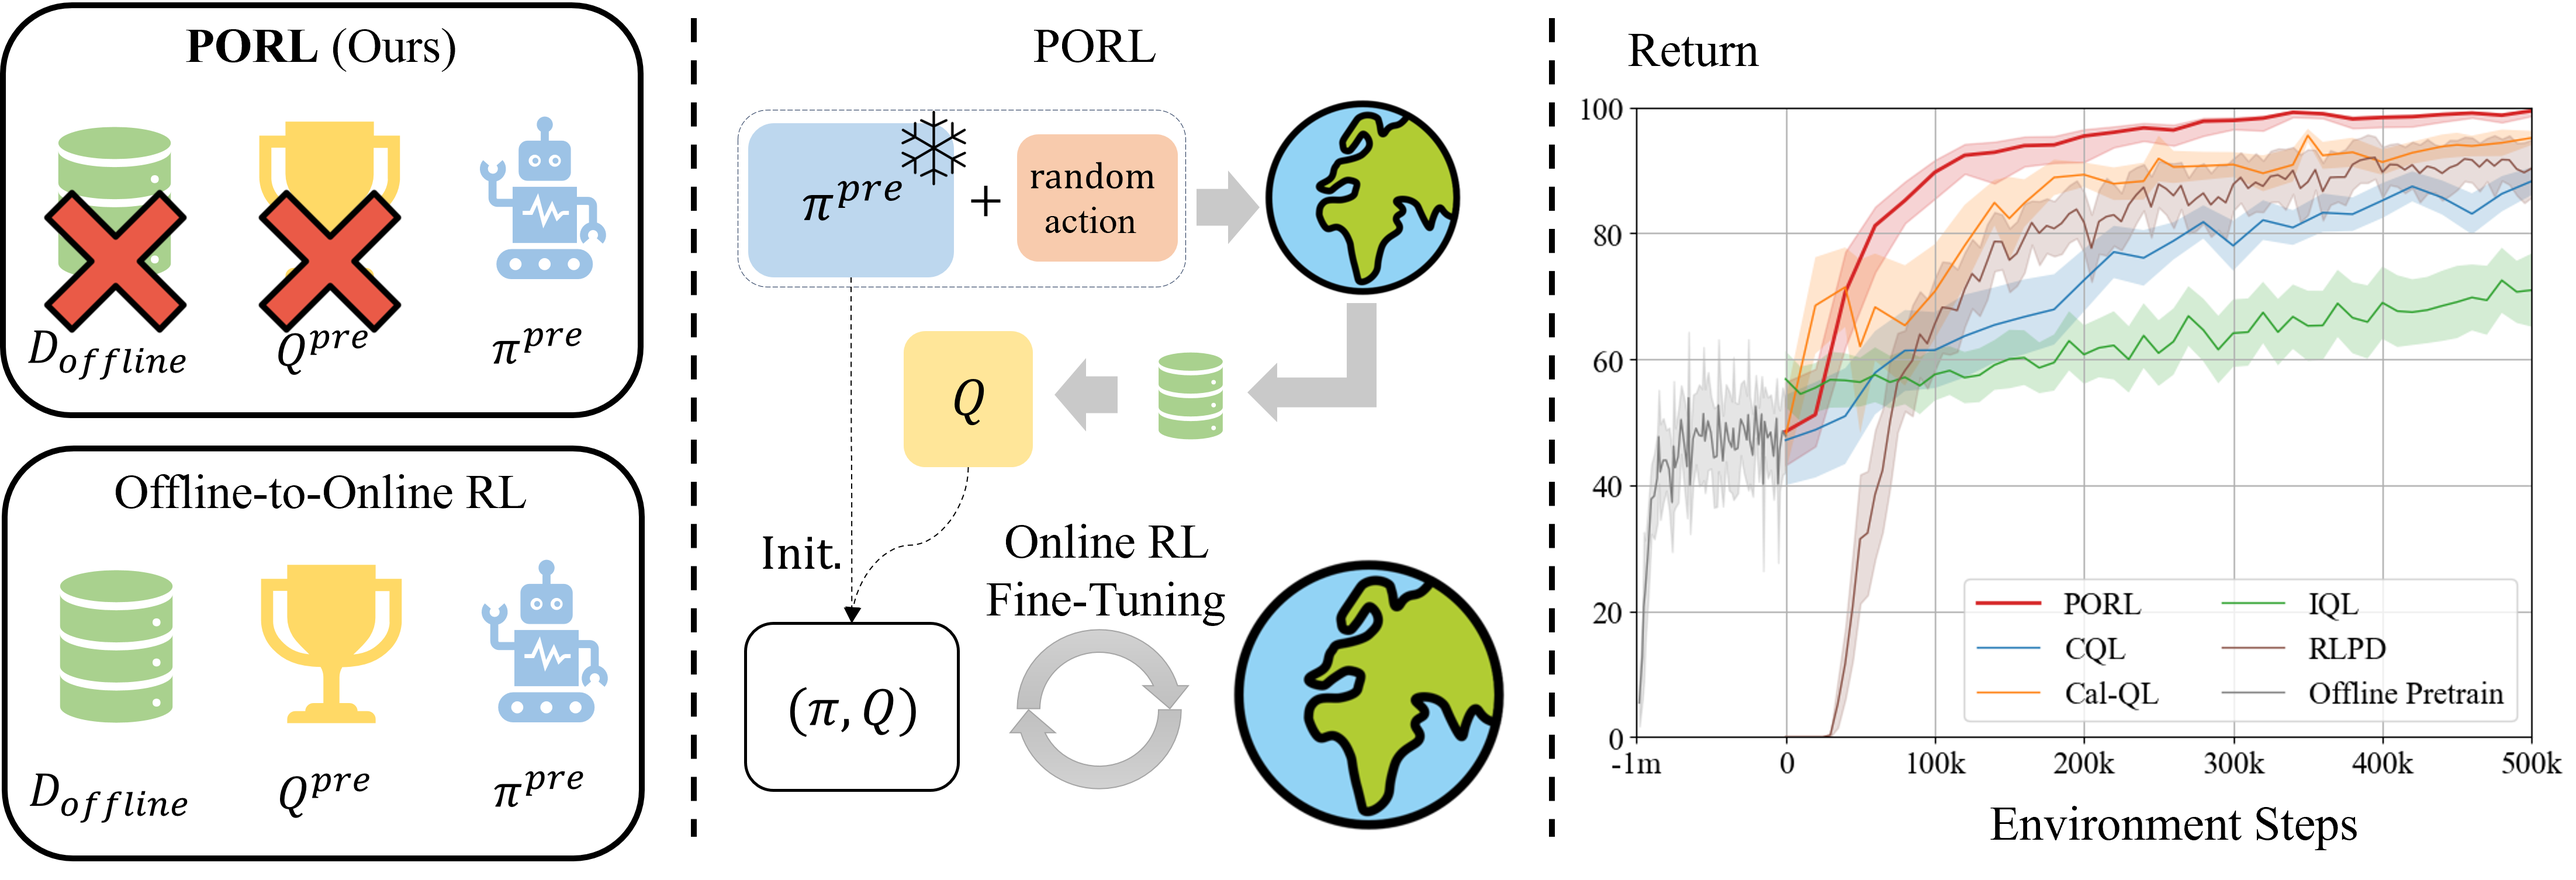
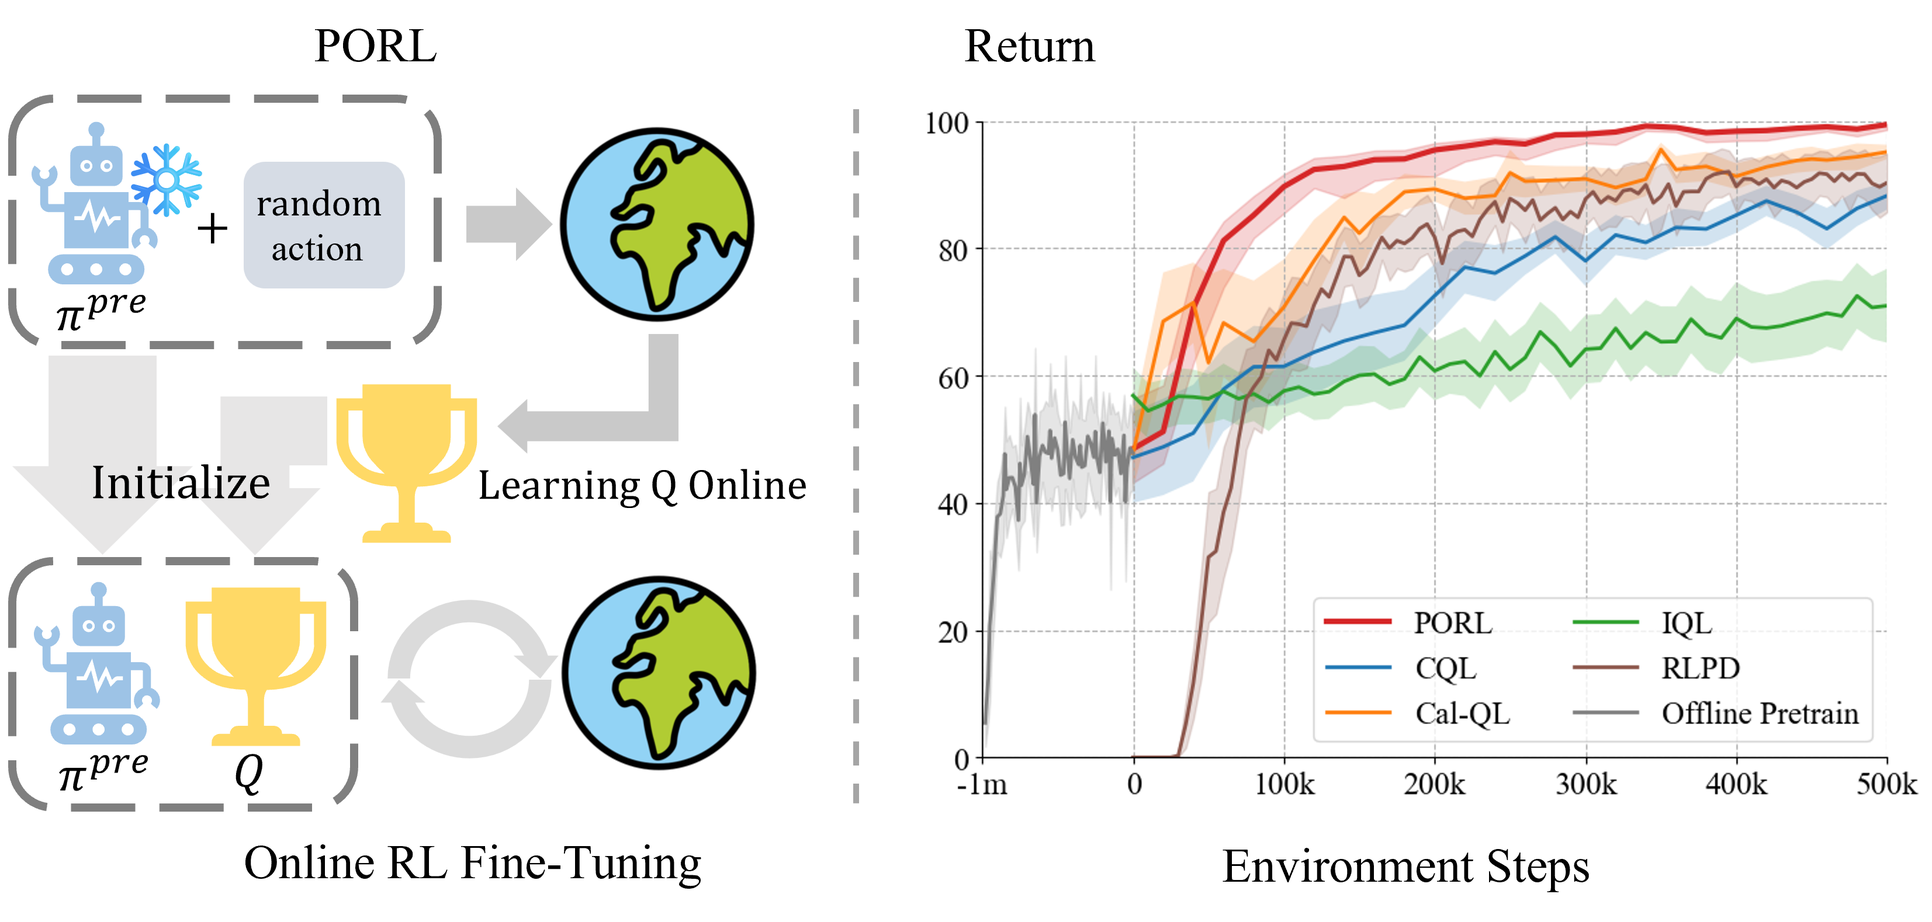
update

diff --git a/_includes/author-profile.html b/_includes/author-profile.html
@@ -118,6 +118,9 @@
       {% if author.zhihu %}
         <li><a href="https://www.zhihu.com/people/{{ author.zhihu }}"><i class="fab fa-fw fa-zhihu" aria-hidden="true"></i> Zhihu</a></li>
       {% endif %}
+      {% if author.xiaohongshu %}
+        <li><a href="{{ author.xiaohongshu }}"><i class="fab fa-fw fa-xiaohongshu" aria-hidden="true"></i> 小红书</a></li>
+      {% endif %}
       {% if author.wikipedia %}
         <li><a href="https://en.wikipedia.org/wiki/User:{{ author.wikipedia }}"><i class="fab fa-fw fa-wikipedia-w" aria-hidden="true"></i> Wikipedia</a></li>
 {% endif %}

diff --git a/_pages/about.md b/_pages/about.md
@@ -18,59 +18,73 @@ redirect_from:
 
 <span class='anchor' id='about-me'></span>
 
-I'm Wei Xiao (肖巍), now a Research Assistant at [MiLab](https://milab.westlake.edu.cn/index.html), Westlake University advised by [Donglin Wang](https://scholar.google.com/citations?user=-fo6wdwAAAAJ&hl=zh-CN). 
-Prior to that, I got my bachelor's degree in Automation from [Xiamen University](https://www.xmu.edu.cn/) advised by [Qifeng Zhou](https://scholar.google.com/citations?user=yLQpYYYAAAAJ). 
+Hi!, I'm **Wei Xiao (肖巍)**, currently a Research Assistant at [MiLab](https://milab.westlake.edu.cn/index.html), [**Westlake University**](https://www.westlake.edu.cn/) advised by [Donglin Wang](https://scholar.google.com/citations?user=-fo6wdwAAAAJ&hl=zh-CN). 
+Prior to that, I got my bachelor's degree in Automation from [**Xiamen University**](https://www.xmu.edu.cn/) advised by [Qifeng Zhou](https://scholar.google.com/citations?user=yLQpYYYAAAAJ). 
 
-<span style="color:blue">I am looking for research collaborations and a Ph.D/MPhil. position starting from 2025/2026.</span>
+<span style="color:pink">I am looking for research collaborations and a PhD position</span> starting from <span style="color:red">2026 Fall.</span>
 Please drop me an email if you are interested in my research or just want to chat!
 
-Email: xiaowei2002103@foxmail.com / xiaowei@westlake.edu.cn !
+Email: **xiaowei2002103@foxmail.com** !
 
-My research interests include Embodied AI and Reinforcement Learning. 
+I like \textbf{Robotic Learning}. I am focused on building end-to-end robots with <span style="color:red">Universality, Generalizability</span>, and <span style="color:red">Robustness</span>, utilizing learning‑based methods that scale with data and computation. I am currently passionate about <span style="color:red">Manipulation</span> and <span style="color:red">Locomotion</span> tasks.
 
-I am passionate about building generalizable robots and powerful decision models.
 
 # 📍 Experience
 - *2024.7-now*: Research Assistant in Machine Intelligence Lab (MiLAB), Westlake University
 
-- *2021.7-2024.7*: (Bachelor Degree)Major in Automation, Xiamen University
+- *2021.7-2024.7*: (B.Eng)Major in Automation, Xiamen University
 
 - *2020.9-2021.7*: Major in Biology, Xiamen University
 
 # 🔥 News
+- *2025.5*: &nbsp;🎉🎉 Our works [PORL](https://arxiv.org/abs/2505.16856) and [LIT](https://arxiv.org/abs/2503.10484v1) is available in arxiv.
 - *2024.11*: &nbsp;🎉🎉 Homepage has been set up.
-- *2024.09*: &nbsp;🎉🎉 Our paper "PT4Rec: A Universal Prompt-Tuning Framework for Graph Contrastive Learning-Based Recommendations" is accepted by ACML2024 and Machine Learning Journal.
+- *2024.09*: &nbsp;🎉🎉 Our paper [PT4Rec](https://link.springer.com/article/10.1007/s10994-024-06658-0) is accepted by ACML2024 and Machine Learning Journal.
 
 # 📝 Publications 
 ## Embodied AI & RL
+<div class='paper-box'><div class='paper-box-image'><div><div class="badge">(under review)</div><img src='images/papers/porl.png' alt="sym" width="100%"></div></div>
+<div class='paper-box-text' markdown="1">
+
+**Efficient Online RL Fine-Tuning with Offline Pre-trained Policy Only**
+
+**Wei Xiao***, Jiacheng Liu, Zifeng Zhuang, Runze Suo, Shangke Lyu†, Donglin Wang†
+- Online RL Fine-Tuning.
+- [**Paper**](https://arxiv.org/abs/2505.16856)
+</div>
+</div>
+
+
 <div class='paper-box'><div class='paper-box-image'><div><div class="badge">(under review)</div><img src='images/papers/lit.png' alt="sym" width="100%"></div></div>
 <div class='paper-box-text' markdown="1">
 
-[Learning Robotic Policy with Imagined Transition: Mitigating the Trade-off between Robustness and Optimality](https://arxiv.org/abs/2503.10484v1)
+**Learning Robotic Policy with Imagined Transition: Mitigating the Trade-off between Robustness and Optimality**
 
 **Wei Xiao***, Shangke Lyu†, [Zhefei Gong](https://zhefeigong.github.io/), Renjie Wang, Donglin Wang†
-- Robotic Locomotion.
+- Robotic Locomotion, RL.
+- [**Paper**](https://arxiv.org/abs/2503.10484v1)
 </div>
 </div>
+
+
+<div class='paper-box'><div class='paper-box-image'><div><div class="badge">(under review)</div><img src='images/papers/korr.png' alt="sym" width="100%"></div></div>
+<div class='paper-box-text' markdown="1">
+
+**Robust Online Residual Refinement via Koopman-Guided Dynamics Modeling**
+
+Zhefei Gong, Shangke Lyu, Pengxiang Ding, **Wei Xiao**, Donglin Wang†
+- Robotic Manipulation, Model-Based RL.
+</div>
+</div>
+
 
 <div class='paper-box'><div class='paper-box-image'><div><div class="badge">(under review)</div><img src='images/papers/to.png' alt="sym" width="100%"></div></div>
 <div class='paper-box-text' markdown="1">
 
-[Integrating Trajectory Optimization and Reinforcement Learning for Quadrupedal Jumping with Terrain-Adaptive Landing]()
+**Integrating Trajectory Optimization and Reinforcement Learning for Quadrupedal Jumping with Terrain-Adaptive Landing**
 
 Renjie Wang*, Shangke Lyu†, Xin Lang, **Wei Xiao**, Donglin Wang†
-- Robotic Locomotion.
-</div>
-</div>
-
-
-<div class='paper-box'><div class='paper-box-image'><div><div class="badge">(under review)</div><img src='images/papers/porl.png' alt="sym" width="100%"></div></div>
-<div class='paper-box-text' markdown="1">
-
-[Efficient Online RL Fine-Tuning with Offline Pre-trained Policy Only]()
-
-**Wei Xiao***, Jiacheng Liu, Zifeng Zhuang, Runze Suo, Shangke Lyu†, Donglin Wang†
-- Online RL Fine-Tuning.
+- Robotic Locomotion, Trajectory Optimization, RL.
 </div>
 </div>
 
@@ -78,10 +92,10 @@ Renjie Wang*, Shangke Lyu†, Xin Lang, **Wei Xiao**, Donglin Wang†
 <div class='paper-box'><div class='paper-box-image'><div><div class="badge">(under review)</div><img src='images/papers/uap.png' alt="sym" width="100%"></div></div>
 <div class='paper-box-text' markdown="1">
 
-[Uncertainty-Aware Planning: Mitigating Exploration Loss in Model-Based Reinforcement Learning]()
+**Uncertainty-Aware Planning: Mitigating Exploration Loss in Model-Based Reinforcement Learning**
 
 Runze Suo*, Zifeng Zhuang, Shangke Lyu, Xiao He, **Wei Xiao**, Ting Wang, Donglin Wang†
-- Model-Based Reinforcement Learning.
+- Model-Based RL, Planning.
 </div>
 </div>
 
@@ -90,7 +104,7 @@ Runze Suo*, Zifeng Zhuang, Shangke Lyu, Xiao He, **Wei Xiao**, Ting Wang, Dongli
 <div class='paper-box'><div class='paper-box-image'><div><div class="badge">(under review)</div><img src='images/papers/ss4rec.png' alt="sym" width="100%"></div></div>
 <div class='paper-box-text' markdown="1">
 
-[Continuous-Time Sequential Recommendation with State Space Models](https://arxiv.org/pdf/2502.08132)
+**Continuous-Time Sequential Recommendation with State Space Models**
 
 **Wei Xiao***, Huiying Wang*, Qifeng Zhou†, Qing Wang
 - SSM, Recommender system.
@@ -104,7 +118,7 @@ Runze Suo*, Zifeng Zhuang, Shangke Lyu, Xiao He, **Wei Xiao**, Ting Wang, Dongli
 <div class='paper-box'><div class='paper-box-image'><div><div class="badge">ACML 2024</div><img src='images/papers/pt4rec.png' alt="sym" width="100%"></div></div>
 <div class='paper-box-text' markdown="1">
 
-[PT4Rec: A Universal Prompt-Tuning Framework for Graph Contrastive Learning-Based Recommendations](https://www.acml-conf.org/2024/program/accepted-papers/)
+**PT4Rec: A Universal Prompt-Tuning Framework for Graph Contrastive Learning-Based Recommendations**
 
 **Wei Xiao***, Qifeng Zhou†
 - GNN, Contrastive Learning, Recommender system.
@@ -115,7 +129,7 @@ Runze Suo*, Zifeng Zhuang, Shangke Lyu, Xiao He, **Wei Xiao**, Ting Wang, Dongli
 </div>
 
 # 🎖 Honors and Awards
-<div class='paper-box'><div class='paper-box-image'><div><div class="badge">Tencent</div><img src='images/kaiwu.png' alt="sym" width="100%"></div></div>
+<div class='paper-box'><div class='paper-box-image'><div><div class="badge">Tencent</div><img src='images/projects/kaiwu.png' alt="sym" width="100%"></div></div>
 <div class='paper-box-text' markdown="1">
 
 [Tencent Kaiwu Reinforcement Learning Competition](https://pre-prod.kaiwu.pvp.qq.com/aiarena/zh/news/b751f28065b7904f0913004a6c413002) - *2023.12* 
@@ -128,7 +142,7 @@ Runze Suo*, Zifeng Zhuang, Shangke Lyu, Xiao He, **Wei Xiao**, Ting Wang, Dongli
 </div>
 
 
-<div class='paper-box'><div class='paper-box-image'><div><div class="badge">CAA</div><img src='images/car.png' alt="sym" width="100%"></div></div>
+<div class='paper-box'><div class='paper-box-image'><div><div class="badge">CAA</div><img src='images/projects/car.png' alt="sym" width="100%"></div></div>
 <div class='paper-box-text' markdown="1">
 
 [The 17th National Smart Car Competition for University Students](https://www.smartcar.zone/) - *2022.07*
